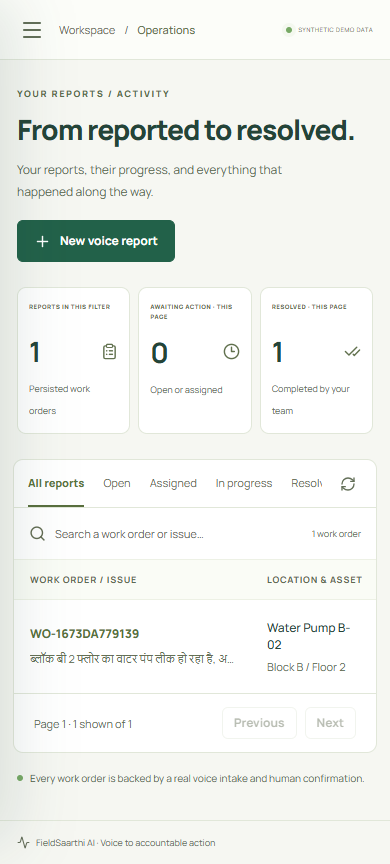
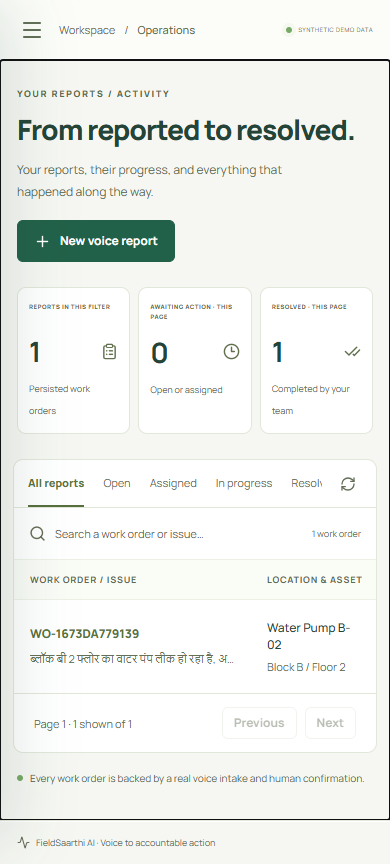
fix: make fresh-clone seed export reliable and preserve keyboard navigation

Changed region(s): [[0.9846, 0.0625, 1.0, 0.9375], [0.0, 0.0625, 0.0308, 0.0938]]

diff --git a/web/src/App.tsx b/web/src/App.tsx
@@ -185,7 +185,14 @@ export default function App() {
   const operations = route.startsWith("/orders") || user.role === "SUPERVISOR";
   return (
     <div className="app-shell">
-      <a className="skip-link" href="#main">
+      <a
+        className="skip-link"
+        href="#main"
+        onClick={(e) => {
+          e.preventDefault();
+          document.getElementById("main")?.focus();
+        }}
+      >
         Skip to content
       </a>
       <aside className={"sidebar " + (mobileNav ? "mobile-open" : "")}>
@@ -290,7 +297,7 @@ export default function App() {
           </div>
           <div className="top-date">{today}</div>
         </header>
-        <main id="main" className="main-content">
+        <main id="main" className="main-content" tabIndex={-1}>
           {detailId ? (
             <Detail id={detailId} user={user} />
           ) : operations ? (

diff --git a/api/app/seed.py b/api/app/seed.py
@@ -1,6 +1,7 @@
 import json
 import os
 import secrets
+from pathlib import Path
 from uuid import NAMESPACE_URL, uuid5
 
 from sqlalchemy import select
@@ -79,13 +80,21 @@ def seed(db: Session) -> list[dict[str, str]]:
     return accounts
 
 
+def write_accounts(accounts: list[dict[str, str]], *, root: Path = ROOT) -> None:
+    target = root / "private/demo-accounts.json"
+    target.parent.mkdir(parents=True, exist_ok=True, mode=0o700)
+    existing = json.loads(target.read_text(encoding="utf-8")) if target.exists() else []
+    by_email = {account["email"]: account for account in existing}
+    by_email.update({account["email"]: account for account in accounts})
+    target.write_text(json.dumps(list(by_email.values()), indent=2), encoding="utf-8")
+
+
 if __name__ == "__main__":
+    (ROOT / "private").mkdir(parents=True, exist_ok=True, mode=0o700)
     with SessionLocal() as db:
         accounts = seed(db)
     if accounts:
-        target = ROOT / "private/demo-accounts.json"
-        existing = json.loads(target.read_text()) if target.exists() else []
-        target.write_text(json.dumps(existing + accounts, indent=2), encoding="utf-8")
+        write_accounts(accounts)
         print(
             "Synthetic accounts created; credentials saved privately to private/demo-accounts.json"
         )

diff --git a/api/tests/integration/test_release_guards.py b/api/tests/integration/test_release_guards.py
@@ -50,3 +50,28 @@ def test_body_limit_before_parsing(accounts):
             headers={**headers, "Content-Length": str(20_000_000)},
         )
         assert result.status_code == 413
+
+
+def test_successful_tts_body_is_delivered_as_binary(accounts, monkeypatch):
+    from test_intakes import wav
+
+    expected = wav()
+
+    async def success(*args, **kwargs):
+        return expected
+
+    monkeypatch.setattr(TimbreClient, "synthesize", success)
+    monkeypatch.setenv("GNANI_TTS_ENABLED", "true")
+    with TestClient(app) as client:
+        headers = login(client, accounts[0])
+        created = client.post(
+            "/api/v1/work-orders",
+            json=payload(fixture_intake()),
+            headers={**headers, "Idempotency-Key": str(uuid4())},
+        )
+        result = client.post(
+            "/api/v1/work-orders/" + created.json()["id"] + "/acknowledgment-audio", headers=headers
+        )
+        assert result.status_code == 200
+        assert result.headers["content-type"] == "audio/wav"
+        assert result.content == expected

diff --git a/api/tests/unit/test_seed_export.py b/api/tests/unit/test_seed_export.py
@@ -1,0 +1,16 @@
+import json
+
+from app.seed import write_accounts
+
+
+def test_fresh_clone_creates_private_credential_directory(tmp_path):
+    accounts = [{"email": "fixture@example.test", "password": "fixture-not-a-real-password"}]
+    write_accounts(accounts, root=tmp_path)
+    assert json.loads((tmp_path / "private/demo-accounts.json").read_text()) == accounts
+
+
+def test_reseed_replaces_stale_credential_for_same_identity(tmp_path):
+    write_accounts([{"email": "fixture@example.test", "password": "old-fixture"}], root=tmp_path)
+    write_accounts([{"email": "fixture@example.test", "password": "new-fixture"}], root=tmp_path)
+    saved = json.loads((tmp_path / "private/demo-accounts.json").read_text())
+    assert len(saved) == 1 and saved[0]["password"] == "new-fixture"

diff --git a/api/scripts/browser_quality.py b/api/scripts/browser_quality.py
@@ -65,6 +65,12 @@ def main():
         page.get_by_role("button", name="Toggle navigation").click()
         page.get_by_role("button", name="My reports", exact=False).click()
         page.get_by_role("heading", name="From reported to resolved.").wait_for()
+        previous_url = page.url
+        page.locator(".skip-link").focus()
+        page.locator(".skip-link").press("Enter")
+        page.wait_for_timeout(100)
+        assert page.url == previous_url, "Skip-to-content must not change the application route"
+        assert page.evaluate("document.activeElement.id") == "main"
         audit("quality-queue-mobile")
         page.set_viewport_size({"width": 1440, "height": 1000})
         audit("quality-queue-desktop")

diff --git a/docs/HANDOFF.md b/docs/HANDOFF.md
@@ -1,10 +1,10 @@
 # Current handoff - 2026-11-09 IST
 User authorized full development, then explicitly prioritized development and said **do not submit the final form**. They will decide contributions later. Team: Shubham Putitundi and Shambhavi Kumar; institution SRM Institute of Science and Technology. Registration email/form URL stay only in private/submission-details.json.
 
-Application implemented and locally verified: React + FastAPI + real PostgreSQL18 (private cluster port55432), migrations0001/0002, three synthetic accounts in private/demo-accounts.json, real Prisma intake, catalog suggestions/human confirmation, atomic idempotent orders, supervisor workflow, immutable provenance/audit and optional real Timbre playback. 83 tests pass, strict mypy/Ruff, frontend build/lint/format, six clean axe/browser/mobile views, actual backup/restore counts match. Never rerun paid calls just for reassurance. Original live proof and a real browser-to-Gnani-to-order flow already exist; test recorder used file-fed audio, not a newly spoken human sentence.
+Application implemented and locally verified: React + FastAPI + real PostgreSQL18 (private cluster port55432), migrations0001/0002, three synthetic accounts in private/demo-accounts.json, real Prisma intake, catalog suggestions/human confirmation, atomic idempotent orders, supervisor workflow, immutable provenance/audit and optional real Timbre playback. 86 tests pass, strict mypy/Ruff, frontend build/lint/format, six clean axe/browser/mobile views, actual backup/restore counts match. Never rerun paid calls just for reassurance. Original live proof and a real browser-to-Gnani-to-order flow already exist; test recorder used file-fed audio, not a newly spoken human sentence.
 
 App runs at http://127.0.0.1:8000 when local Uvicorn session is active. Restart after backend code changes before manual use. Private .env contains authorized Gnani key and DB/JWT secrets. User allows the same key for hosting. Root .env.example has a user edit: preserve it and do not stage without reviewing. No actual secrets may go into Git or public logs.
 
-GitHub remote supplied: https://github.com/rdx644/FieldSarthi-AI.git. Git credentials work and API indicates admin/push rights. Existing remote main contains only an empty README, with history to preserve. Current feature branch is feature/complete-fieldsaarthi; integrate unrelated histories without force push. Publish reviewed code, run CI/container checks and protect main via required quality check/PR. No Render credential/plugin connection is present yet; render.yaml/Dockerfile are prepared and schema-validated, but hosted URL/smoke remain pending.
+GitHub remote supplied: https://github.com/rdx644/FieldSarthi-AI.git. Git credentials work and API indicates admin/push rights. Existing remote history was preserved and integrated. Reviewed implementation is in PR #1, feature/complete-fieldsaarthi. Protected main is enforced (required quality, PRs, no force pushes/deletions). CI runs Linux tests/browser/container checks; inspect the latest run and fix before merge. No Render credential/plugin connection is present yet; render.yaml/Dockerfile are prepared and schema-validated, but hosted URL/smoke remain pending.
 
 See tasks/todo.md and docs/evidence/release-gate.md for honest remaining gates. One-page pitch and form-aligned 2-3 minute script are ready. Form explicitly requires 2-3 minute video, not just the roadmap's optional60second social cut. No posts/forms submitted. Additional authentic audio cases and fresh human microphone demo remain participant verification tasks, not completed ASR benchmarks.

diff --git a/docs/evidence/release-gate.md b/docs/evidence/release-gate.md
@@ -4,7 +4,7 @@
 - Full browser workflow: real prerecorded consenting voice upload -> actual Gnani -> human confirmation -> persisted order -> refresh -> supervisor assignment/start/resolution -> persisted audit. See browser/live-browser-smoke.json. This is not a claim of newly spoken microphone audio.
 - MediaRecorder start/stop: verified with Chrome file-fed test audio and discarded without a second STT call.
 - Timbre: real HTTP 200 binary WAV; repaired streaming header; actual 1.76-second PCM acknowledgment. Requested model timbre-v2.5; response does not echo a model ID. See gnani-tts-live.json.
-- Backend: **83 tests passed**, including PostgreSQL races, idempotency, IDOR, role checks, immutability triggers, replay conflict precedence, CSRF, body limits and TTS failure isolation. Strict Ruff formatting/lint and mypy pass.
+- Backend: **86 tests passed**, including PostgreSQL races, idempotency, IDOR, role checks, immutability triggers, replay conflict precedence, CSRF, body limits and TTS failure isolation. Strict Ruff formatting/lint and mypy pass.
 - Frontend: production TypeScript/Vite build, warning-free lint and formatting pass.
 - Accessibility: six desktop/mobile axe WCAG2A/AA/2.1AA views, zero reported violations/JS errors/horizontal overflow. See browser/accessibility.json. This is automated coverage, not a universal accessibility certification.
 - Text parser evaluation: 15/15 catalog fixtures pass; not an ASR accuracy metric. See ../tests/evaluation.csv.
@@ -16,7 +16,7 @@
 
 ## External gates still requiring actual evidence
 - [ ] GitHub published branch/PR and remote CI/container build outcome recorded.
-- [ ] Protected main workflow enforcement verified.
+- [x] Protected main workflow enforced: required quality check, PR workflow, no force pushes/deletions. See github-publication.json.
 - [ ] Public HTTPS hosting and deployed real-Gnani smoke with the authorized key.
 - [ ] 15 distinct consenting authentic audio evaluation clips and reviewed ground truth.
 - [ ] Newly spoken human microphone sentence in the final demonstration.
@@ -24,3 +24,5 @@
 The user explicitly instructed: **do not submit the final form**. Contribution descriptions will be decided by the user. Registered emails are private. No social posting or final-form submission has been performed.
 
 Local development completion does not claim production availability, official entry completion, CMMI certification, language recognition accuracy beyond the measured samples, or zero unknown vulnerabilities.
+
+Additional development checks: real saved-ticket browser TTS decoded as a 6.4-second playable WAV (browser/live-tts-playback.json); network-body capture was unavailable so no body hash is invented. Keyboard skip-to-content preserves the current hash route and focuses main, covered by browser_quality.py. Fresh-clone private-directory and stale-credential export cases have explicit regression tests.

diff --git a/tasks/todo.md b/tasks/todo.md
@@ -4,7 +4,8 @@
 - [x] Genuine key/STT access verified; user reports 5,000 starting credits and permits the same key for hosting.
 - [x] User confirms team of two, registration and final-form receipt; names/institution received.
 - [ ] Each member's individual eligibility/registration attestation and final contribution descriptions remain user-owned.
-- [ ] GitHub publication, issue tracker and protected main verification pending current publication work.
+- [x] GitHub implementation published in PR #1 and protected main verified.
+- [ ] Required remote quality/container gate and remaining issue tracker items still in progress.
 ## WBS-01: Real Gnani spike
 - [x] WBS-01.1 through WBS-01.6: actual WAV validated, direct cURL + backend HTTPX real responses, tests and sanitized evidence.
 - [ ] Exact deployed-account/key smoke requires actual hosting.
@@ -33,7 +34,7 @@
 - [x] Ownership-safe duplicate warnings and responsive/empty/error/accessibility polish.
 - [x] Model/language limitations documented honestly.
 ## WBS-07: Release
-- [x] 83 backend tests, strict lint/format/type, frontend build/lint/format, six axe/mobile/browser views.
+- [x] 86 backend tests, strict lint/format/type, frontend build/lint/format, six axe/mobile/browser views.
 - [x] RBAC/IDOR, provider and media failures, idempotency/version conflicts, secret boundaries and dependency audit.
 - [x] Actual private backup/isolated restore drill with matching table counts.
 - [x] Docker/Render/CI configuration and static Render schema validation.

diff --git a/README.md b/README.md
@@ -12,7 +12,7 @@ Built for the Gnani AI internship challenge by **Shubham Putitundi and Shambhavi
 - Real optional **Gnani Timbre** Hindi WAV acknowledgment, independently generated after saving. TTS failure cannot undo an order.
 - Immutable database audit/provenance protections, a responsive interface and tested desktop/mobile accessibility.
 
-**Verified locally:** 83 backend tests, strict mypy/Ruff, frontend type/build/lint/format checks, six WCAG axe/browser checks, genuine browser-to-Gnani-to-database supervisor workflow, real Timbre response, and a matching PostgreSQL backup/restore drill. Exact limits and outstanding external release checks are in [the release record](docs/evidence/release-gate.md).
+**Verified locally:** 86 backend tests, strict mypy/Ruff, frontend type/build/lint/format checks, six WCAG axe/browser checks, genuine browser-to-Gnani-to-database supervisor workflow, real Timbre response, and a matching PostgreSQL backup/restore drill. Exact limits and outstanding external release checks are in [the release record](docs/evidence/release-gate.md).
 
 **Hosting status:** reproducible local application; Docker/Render configuration prepared. Public HTTPS deployment is not claimed until a real hosted smoke succeeds. No public social post or official form submission is claimed.
 
